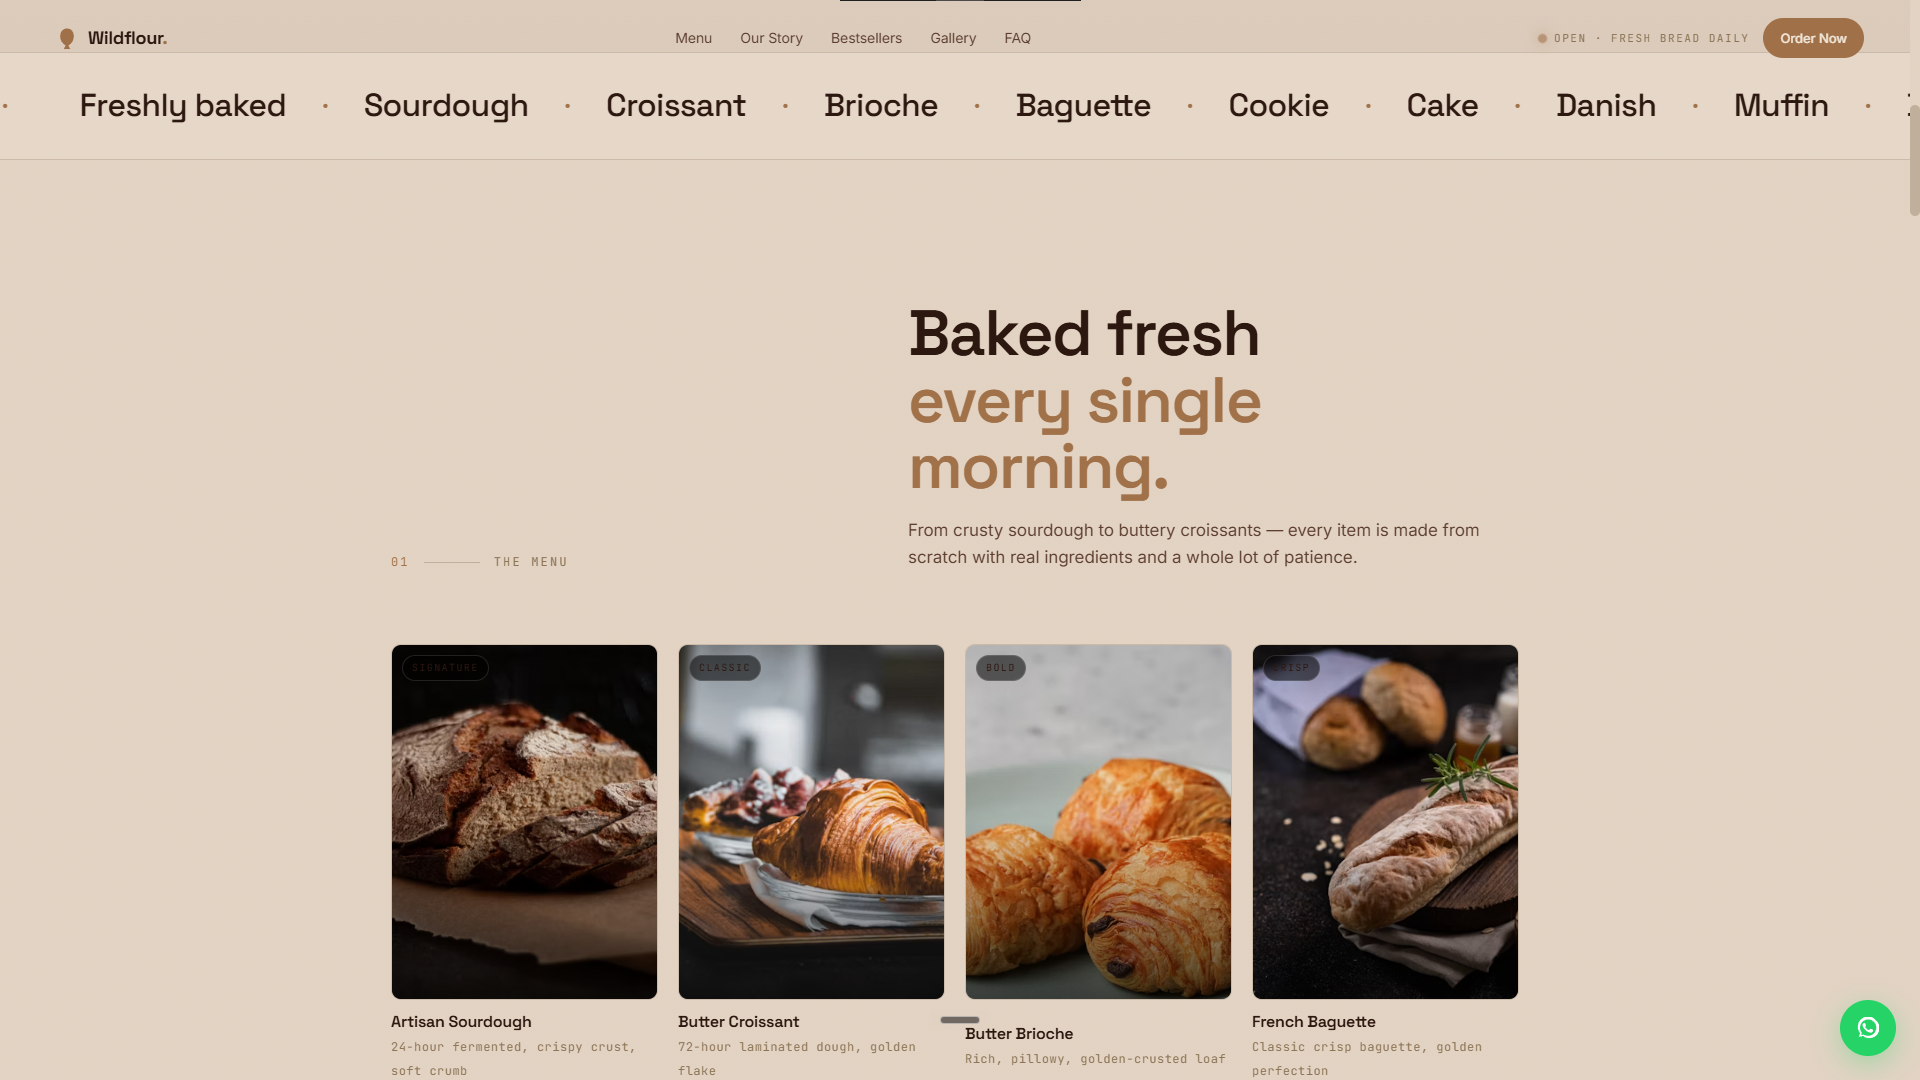
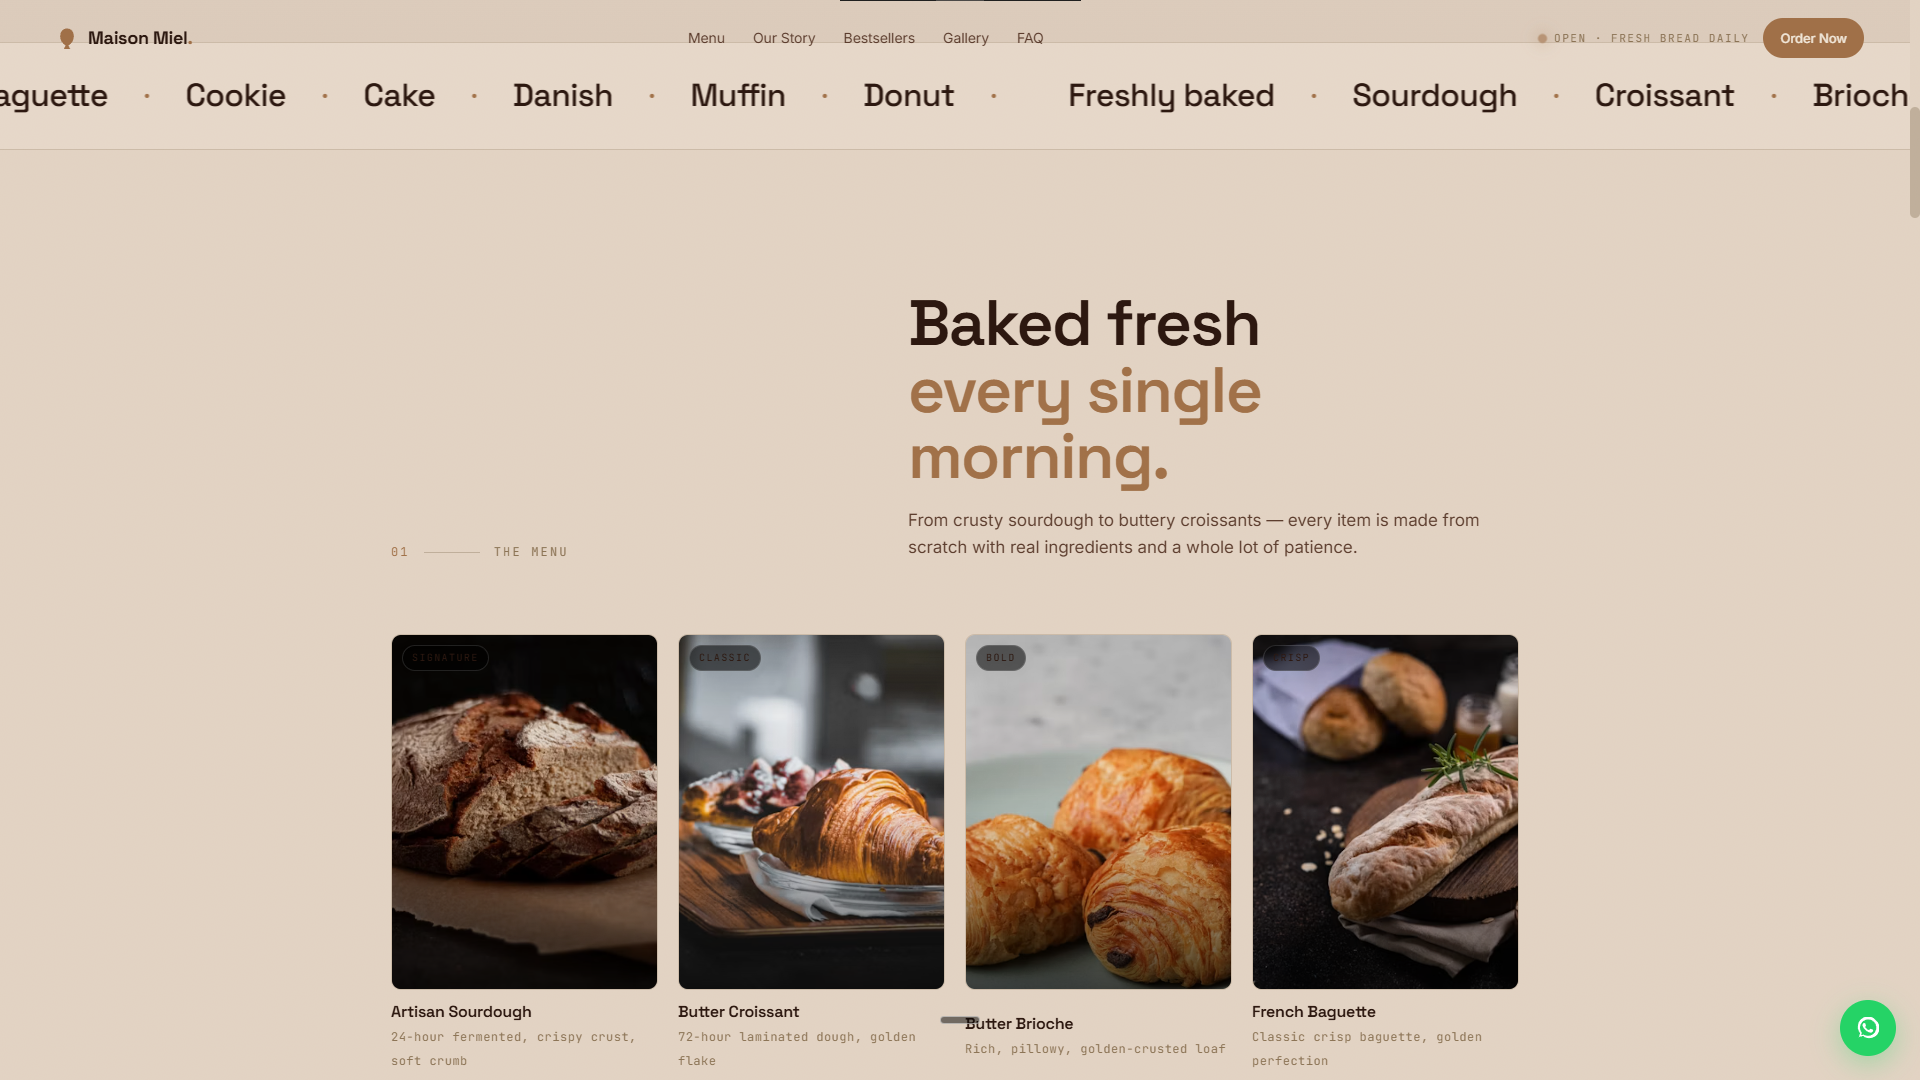
Update preview screenshots for rebrand, fix live URL, remove unused preview-why image, add color-scheme meta to prevent Android force-dark

diff --git a/index.html b/index.html
@@ -9,6 +9,7 @@
   <meta property="og:description" content="Maison Miel Bakery crafts fresh, artisan breads, cakes, pastries, and cookies with love. Experience the warmth of handmade baked goods.">
   <meta property="og:type" content="bakery">
   <meta name="theme-color" content="#e2d2c2" />
+  <meta name="color-scheme" content="light">
   <link rel="preconnect" href="https://fonts.googleapis.com" />
   <link rel="preconnect" href="https://fonts.gstatic.com" crossorigin />
   <link href="https://fonts.googleapis.com/css2?family=Inter:wght@300;400;500;600;700&family=Space+Grotesk:wght@500;600;700&family=JetBrains+Mono:wght@400;500&display=swap" rel="stylesheet" />

diff --git a/css/style.css b/css/style.css
@@ -1,4 +1,8 @@
 :root {
+  color-scheme: light;
+}
+
+:root {
   --bg:           #e2d2c2;
   --bg-elev:      #dbcaba;
   --bg-elev-2:    #d3c0ae;

diff --git a/README.md b/README.md
@@ -2,7 +2,7 @@
 
 A landing page concept for a warm, handcrafted-feeling artisan bakery in Connaught Place, New Delhi.
 
-🔗 **Live:** https://wildflour.akshaycodecrafter.workers.dev/
+🔗 **Live:** https://maison-miel.akshaycodecrafter.workers.dev/
 
 ## Preview
 
@@ -13,8 +13,6 @@ A landing page concept for a warm, handcrafted-feeling artisan bakery in Connaug
 ![Story section with the bakery's founding narrative and timeline cards](assets/preview-story.png)
 
 ![Bestsellers section highlighting top-selling items with per-item and combo pricing](assets/preview-bestsellers.png)
-
-![Why Maison Miel section featuring six value cards about ingredients and craft](assets/preview-why.png)
 
 ![Order section with WhatsApp and phone contact options](assets/preview-order.png)
 
